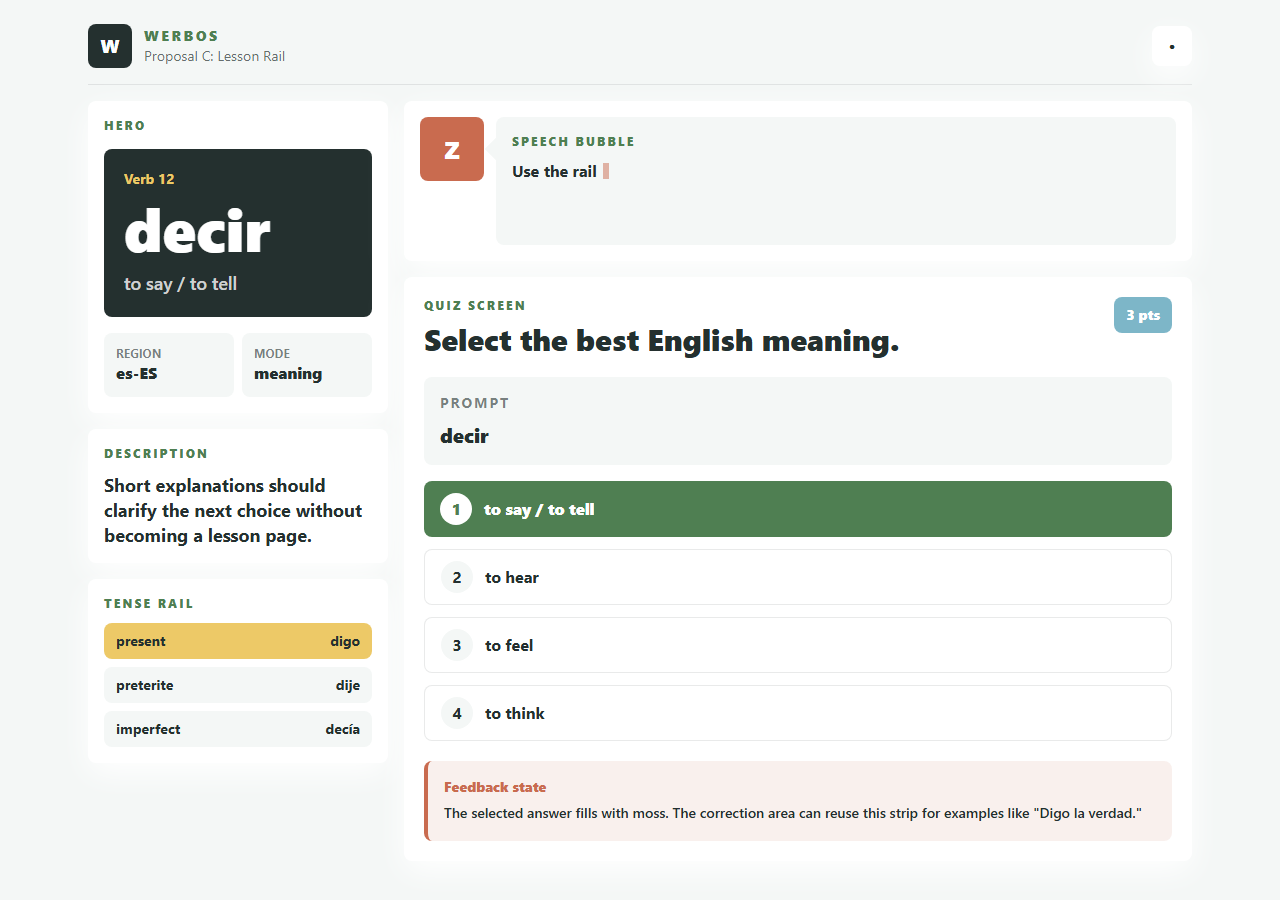
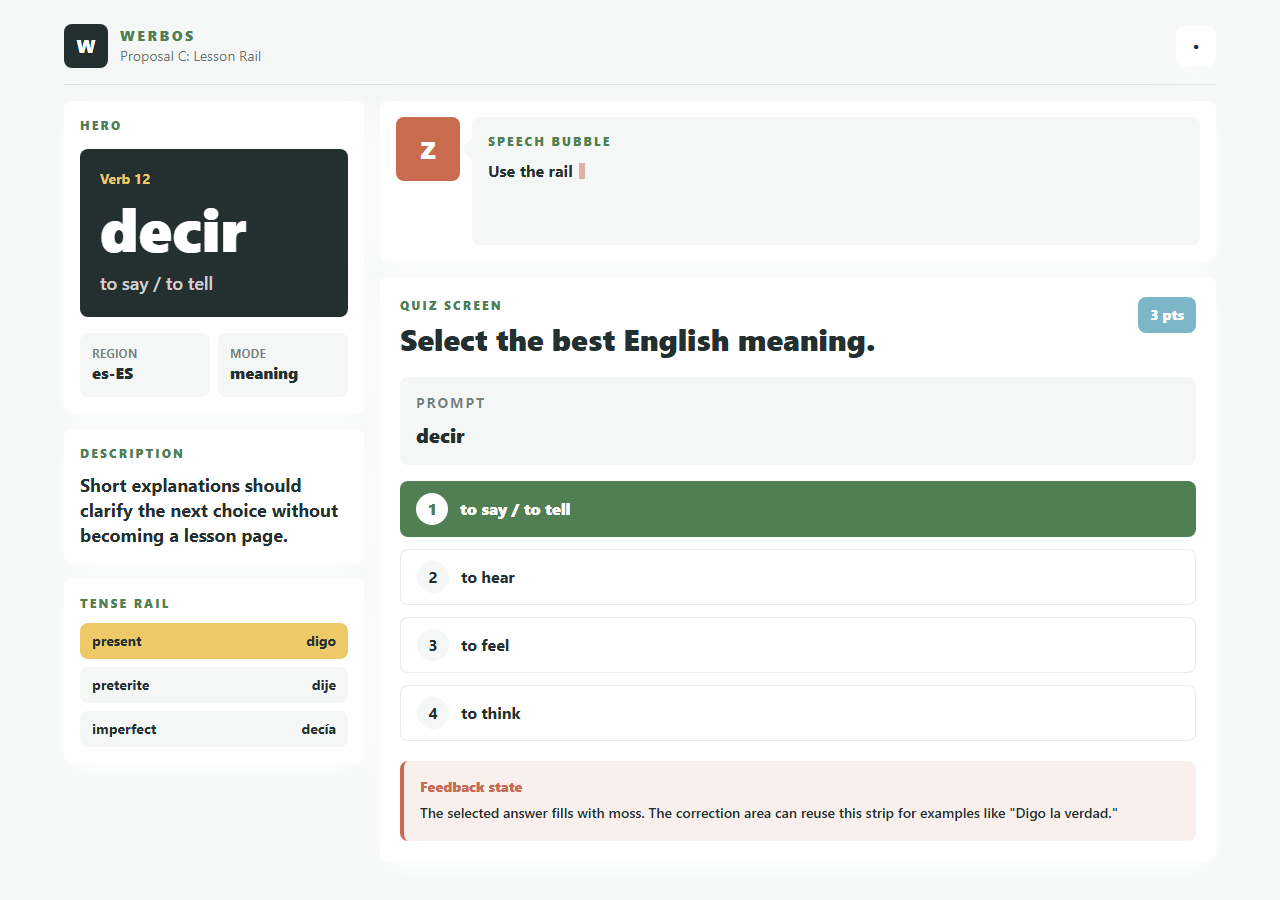
design: refine lesson rail responsive preview

diff --git a/design/index.html b/design/index.html
@@ -26,6 +26,14 @@
       };
     </script>
     <style>
+      *, ::before, ::after {
+        box-sizing: border-box;
+      }
+
+      html, body {
+        overflow-x: hidden;
+      }
+
       .typing::after {
         content: "";
         display: inline-block;
@@ -42,8 +50,8 @@
       }
     </style>
   </head>
-  <body class="min-h-screen bg-canvas text-graphite">
-    <main class="mx-auto flex min-h-screen w-full max-w-6xl flex-col px-4 py-4 sm:px-6 lg:py-6">
+  <body class="min-h-screen overflow-x-hidden bg-canvas text-graphite">
+    <main class="mx-auto flex min-h-screen max-w-6xl flex-col py-4 lg:py-6" style="width: min(72rem, calc(100vw - 2rem));">
       <header class="mb-4 flex items-center justify-between border-b border-graphite/10 pb-4">
         <div class="flex items-center gap-3">
           <div class="grid size-11 place-items-center rounded-lg bg-graphite text-lg font-black text-white" aria-label="Werbos placeholder logo">W</div>